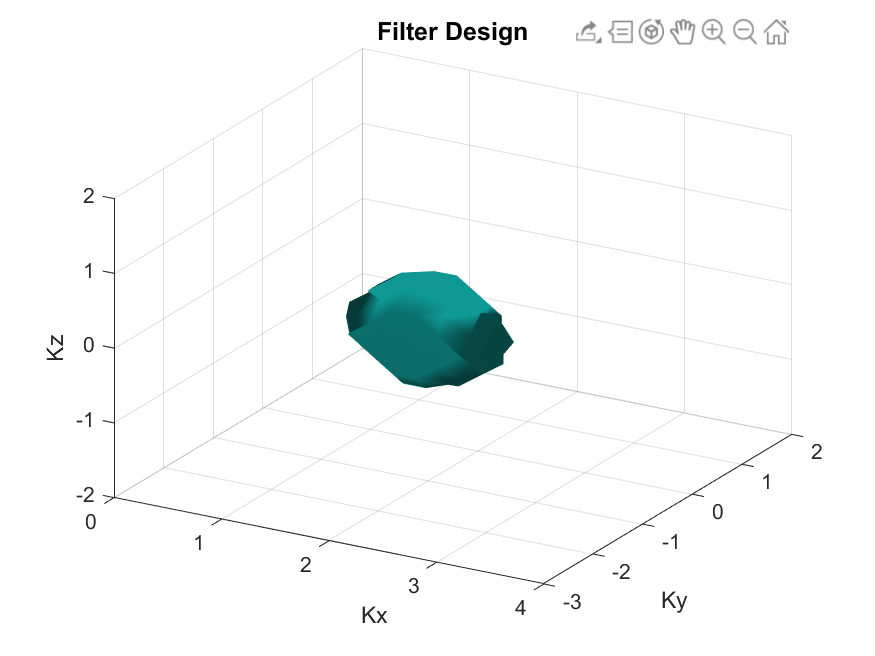
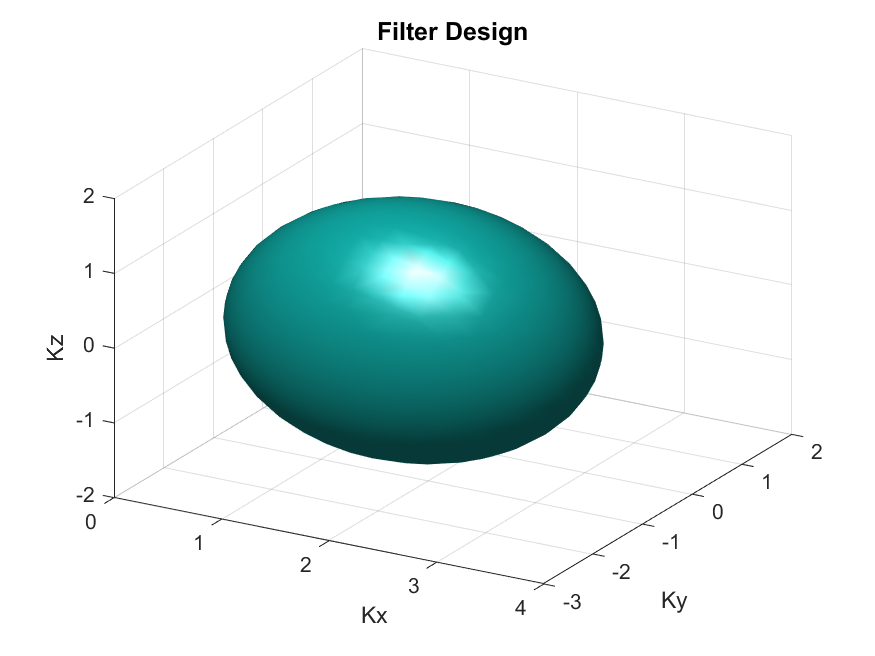
Path of the particle

Changed region(s): [[0.2469, 0.2744, 0.7097, 0.7317], [0.648, 0.0305, 0.9257, 0.0915]]

diff --git a/main.m b/main.m
@@ -51,8 +51,8 @@ end
 sgtitle('Searching for ULTRASOUND FREQUENCY', 'FontSize', 12,...
     'FontWeight', 'bold');
 print(fig, '-dpng', 'fig1')
-% fig2 is zoomed version of fig1 subplot 3,2,6
-%%
+%% Zooming to find out frequency
+
 fig = figure(2);
 
 subplot(3,1,1)
@@ -92,21 +92,27 @@ print(fig, '-dpng', 'fig2')
 %% Filter Design
 
 % After averaging out most of the noise and gradually increasing 
-% the isovalue, we can see that the dominant frequency occurs at
-% Kx = 2, Ky = -1, Kz = 0
+% the isovalue, we can see that the dominant frequency.
 
 % Now that we know the dominant frequency in the data, we will 
 % build a filter and extra act the location of the stone.
 
+% We will now find the mean freq for the filter
+[~,b] = max(abs(U_noisy_fft_avg_shift(:)));
+mu_x = Kx(b);
+mu_y = Ky(b);
+mu_z = Kz(b);
+
 % For our purposes, let's use a gaussian filter.
 fig = figure(3);
-mu = [2 -1 0];
+mu = [mu_x mu_y mu_z];
+sig = 1;
 % width of the filter is a hyperparameter:
-sigma = [0.001 0 0; 0 0.001 0; 0 0 0.001];
+sigma = [sig 0 0; 0 sig 0; 0 0 sig];
 filter = mvnpdf([Kx(:) Ky(:) Kz(:)],mu,sigma);
 filter = reshape(filter,length(Kz),length(Ky),length(Kx));
 isosurface(Kx,Ky,Kz,filter)
-axis([0 4 -3 2 -2 2]), grid on, drawnow
+axis([0 4 -3 2 -2 2]); grid on; drawnow;
 xlabel('Kx')
 ylabel('Ky')
 zlabel('Kz')
@@ -119,17 +125,65 @@ print(fig, '-dpng', 'fig3')
 
 % We will now apply this filter to our avg data in the freq domain.
 fig = figure(4);
-U_noisy_fft_avg_filter = U_noisy_fft_avg
+U_noisy_fft_avg_shift_filter = U_noisy_fft_avg_shift.*filter;
+iter = 1;
+for j = 0.65:0.05:.9
+    sub = subplot(3,2,iter);
+    isosurface(Kx,Ky,Kz, abs(U_noisy_fft_avg_shift_filter)/max(...
+        abs(U_noisy_fft_avg_shift_filter(:))),j);
+    axis([-4 4 -2 2 -2 2]); grid on; drawnow;
+    text(1,1,2, strjoin(["isovalue =", j]))
+    xlabel('Kx')
+    ylabel('Ky')
+    zlabel('Kz')
+    view(30,30)
+    iter = iter + 1;
+end
+sgtitle('Filter applied on average', 'FontSize', 12,...
+    'FontWeight', 'bold');
+print(fig, '-dpng', 'fig4')
 
-%% Apply filter at each time
-
+%% Apply filter at each time slice
 % We will now apply our filter to each time slice. This will help us
 % to find the path of the particle.
+position = zeros(20,3); % This will store the position of the particle
+for j = 1:size(Undata,1) % go through each slice of time
+    U_noisy(:,:,:) = reshape(Undata(j,:),n,n,n);
+    U_noisy_fft = fftn(U_noisy);
+    U_noisy_fft_shift = fftshift(U_noisy_fft);
+    U_noisy_fft_shift_filter = U_noisy_fft_shift.*filter;
+    U = abs(ifftn(ifftshift(U_noisy_fft_shift_filter)));
+    [~,b] = max(U(:));
+    position(j,:) = [X(b) Y(b) Z(b)];
+end
 
+%% Plot the path of the stone
+fig = figure(5);
+iter = 1;
+for j=5:3:20
+    subplot(3,2,iter);
+    plot3(position(1:j,1),position(1:j,2),position(1:j,3), 'k-'); hold on;
+    plot3(position(1:j,1),position(1:j,2),position(1:j,3), 'r.');
+    axis([-15 15 -15 15 -15 15]); hold on;
+    view([30, 30])
+    iter = iter + 1;
+    title(strjoin(["After",j,"time slices"]))
+    xlabel('X')
+    ylabel('Y')
+    zlabel('Z')
+end
+sgtitle('Path of the particle.', 'FontSize', 12,...
+    'FontWeight', 'bold');
+print(fig, '-dpng', 'fig5')
 
-
-
-
-
-
-
+%% Final overall plot
+fig = figure(6);
+plot3(position(:,1),position(:,2),position(:,3), 'k-'); hold on;
+plot3(position(:,1),position(:,2),position(:,3), 'r.');
+axis([-15 15 -15 15 -15 15]); hold on;
+view(71.9739,-25.8661)
+title("Final path of the particle")
+xlabel('X')
+ylabel('Y')
+zlabel('Z')
+print(fig, '-dpng', 'fig6')
